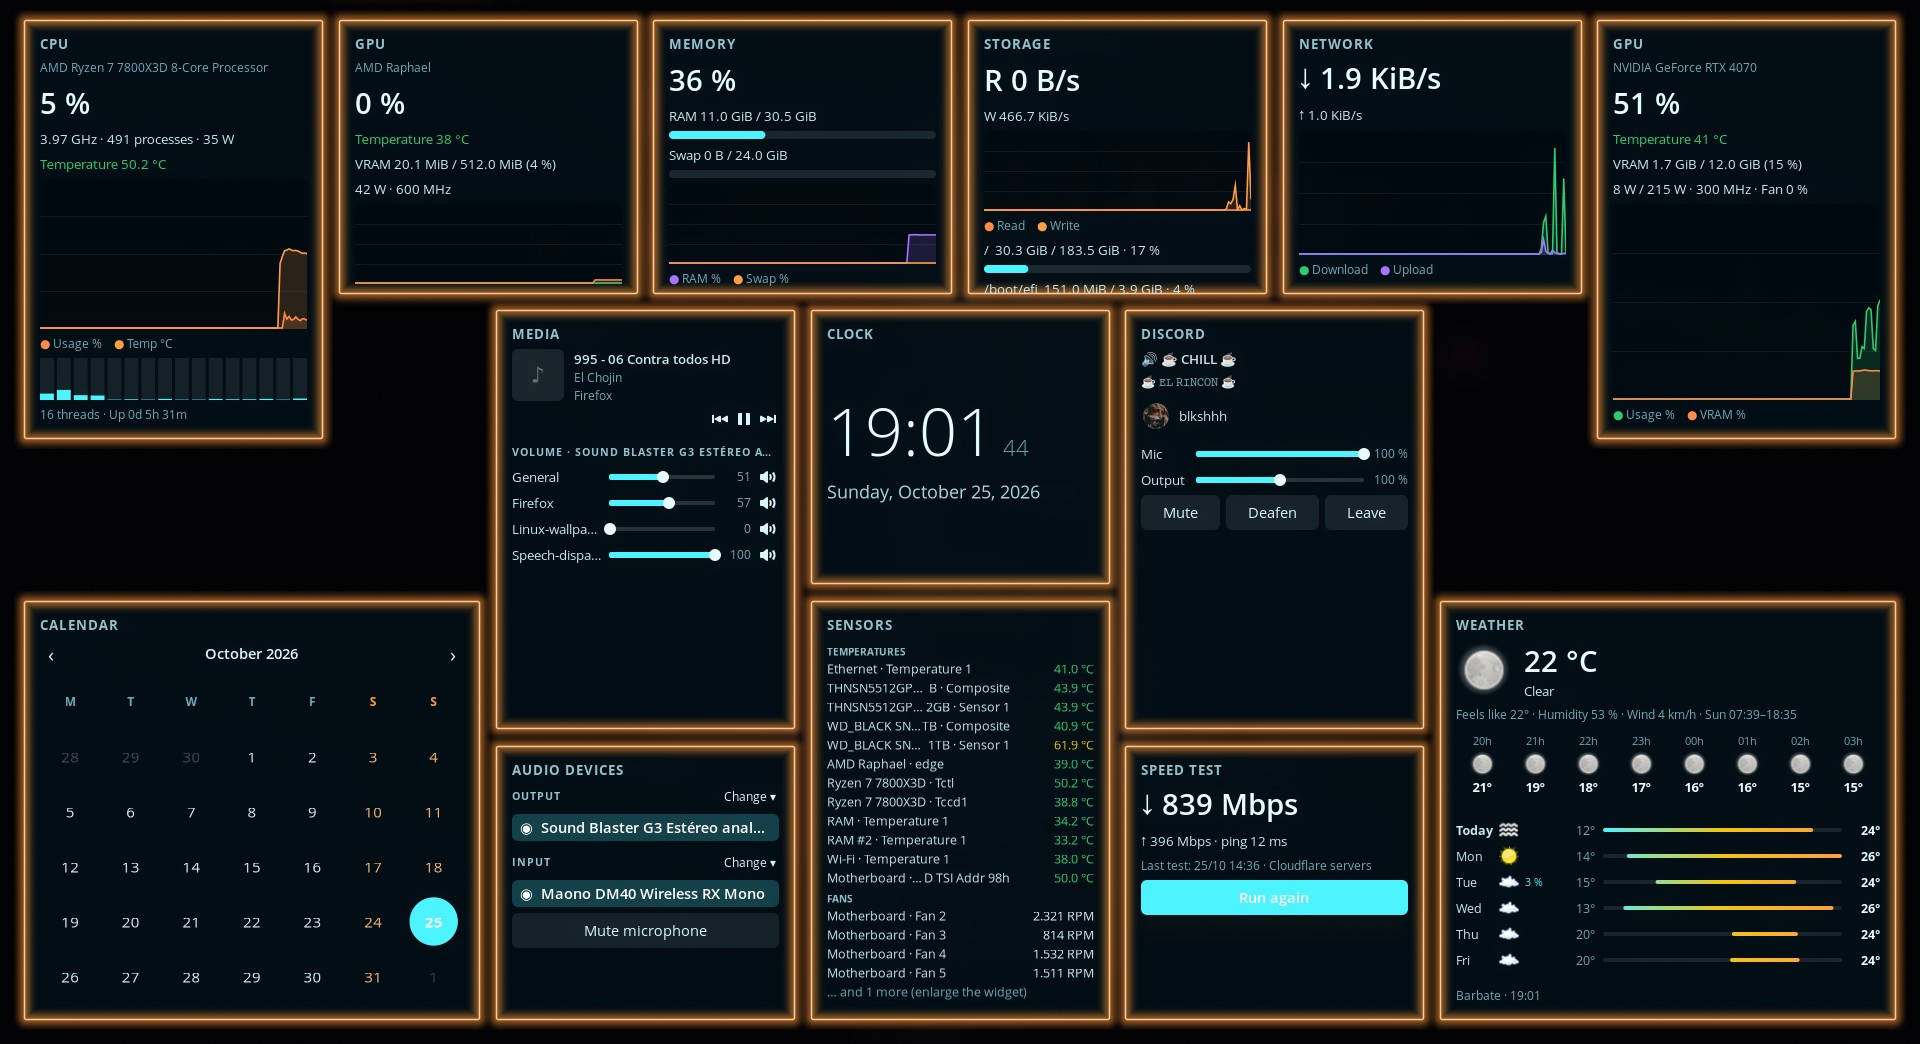
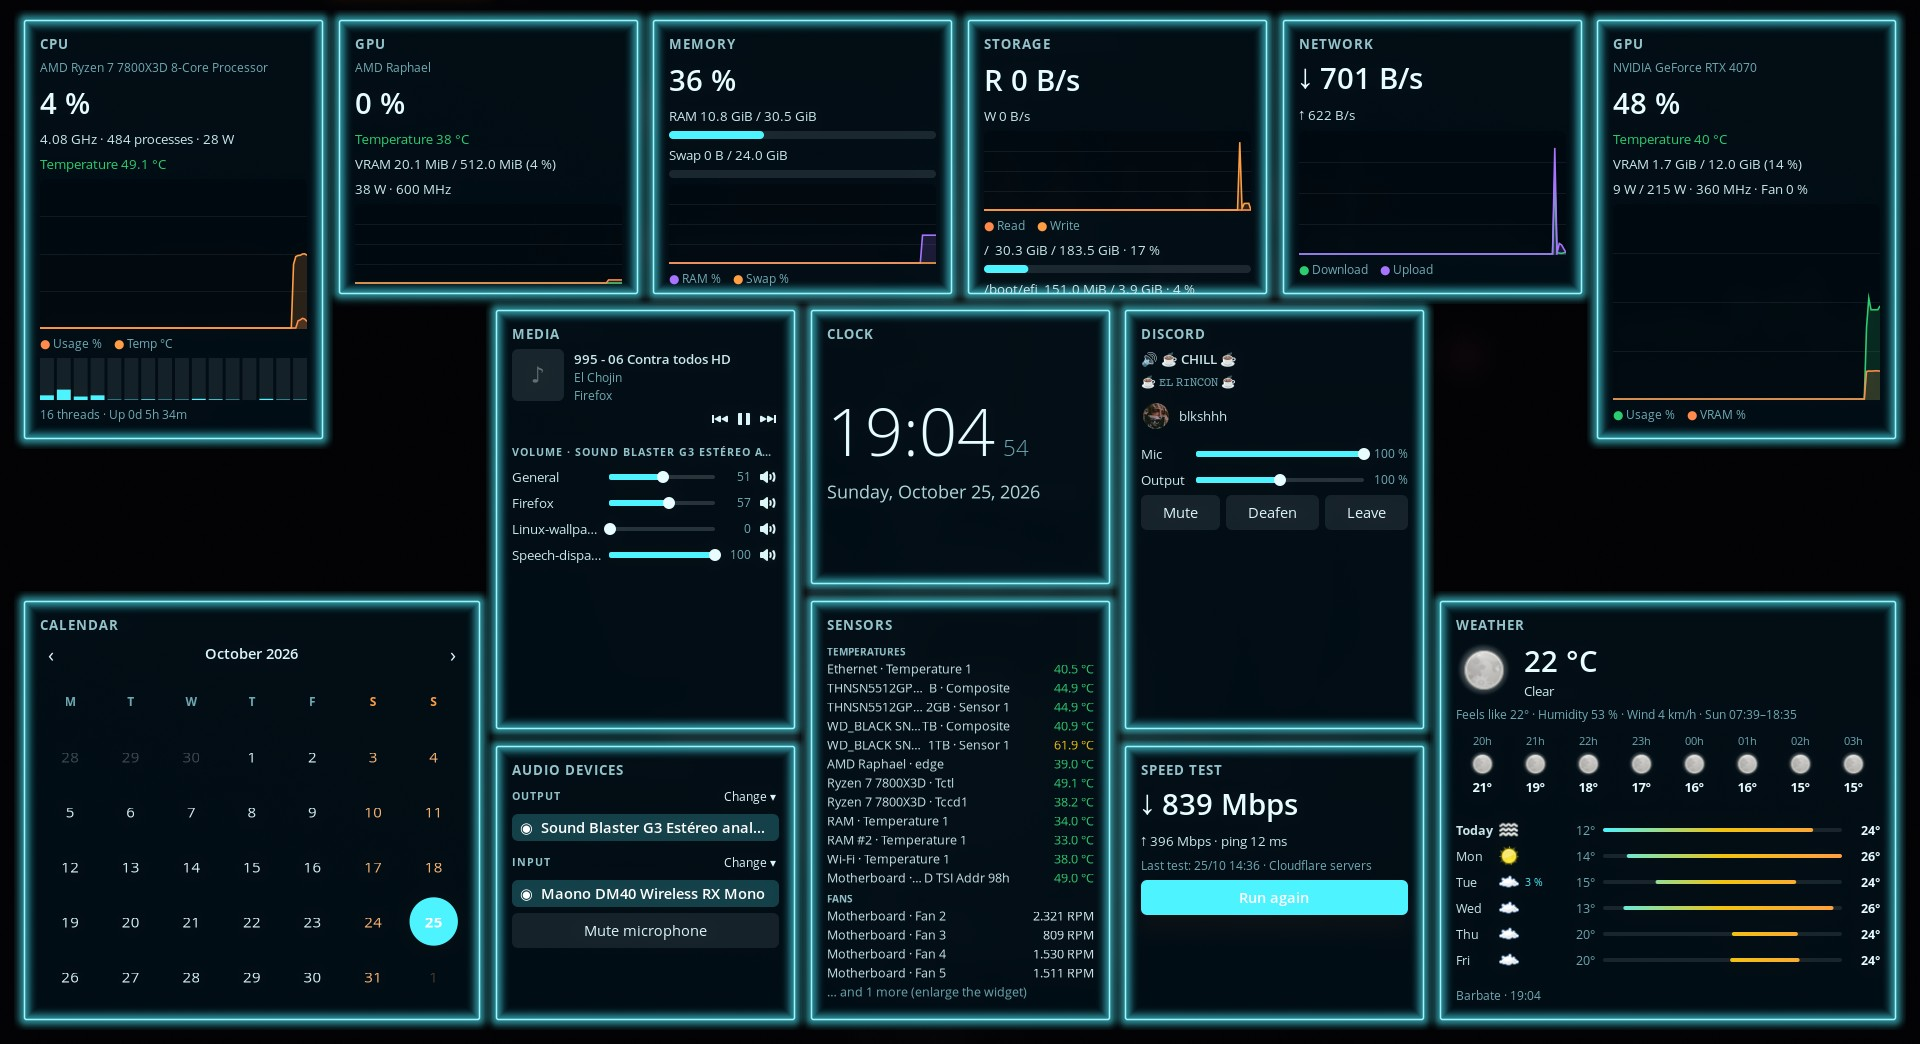
Tron theme: cyan panel borders, and retake its screenshot

Changed region(s): [[0.0, 0.0, 1.0, 1.0], [0.5, 0.3985, 0.5312, 0.4291]]

diff --git a/comun/tema.py b/comun/tema.py
@@ -106,7 +106,7 @@ PREDEFINIDOS = {
         "global": dict(POR_DEFECTO["global"], acento="#4df3ff", texto="#e8fdff", texto_sec="#6fa9b3"),
         "widgets": dict(POR_DEFECTO["widgets"], fondo="#00080c", opacidad=0.88, borde="#4df3ff", borde_opacidad=0.9,
                         borde_grosor=1.0, radio=2, neon=True),
-        "panel": dict(POR_DEFECTO["panel"], fondo="#00121a", opacidad=0.7, borde="#ff9a3c", borde_opacidad=0.85,
+        "panel": dict(POR_DEFECTO["panel"], fondo="#00121a", opacidad=0.7, borde="#4df3ff", borde_opacidad=0.85,
                       borde_grosor=1.0, radio=2, neon=True, panel_fondo="#000204", panel_opacidad=0.85),
     },
     "Vaporwave": {

diff --git a/README.es.md b/README.es.md
@@ -30,7 +30,7 @@ Hechas en Linux (COSMIC); la versión de Windows se ve igual.
 <td><img src="docs/capturas/pastel.jpg" alt="Pastel lavanda"></td>
 </tr>
 <tr>
-<td><img src="docs/capturas/tron.jpg" alt="Tema oscuro con bordes de neón"></td>
+<td><img src="docs/capturas/tron.jpg" alt="Tron"></td>
 <td><img src="docs/capturas/settings.jpg" alt="Ventana de configuración"></td>
 </tr>
 </table>

diff --git a/README.md b/README.md
@@ -26,7 +26,7 @@ Taken on Linux (COSMIC); the Windows version looks the same.
 <td><img src="docs/capturas/pastel.jpg" alt="Pastel lavender"></td>
 </tr>
 <tr>
-<td><img src="docs/capturas/tron.jpg" alt="Dark theme with neon borders"></td>
+<td><img src="docs/capturas/tron.jpg" alt="Tron"></td>
 <td><img src="docs/capturas/settings.jpg" alt="Settings window"></td>
 </tr>
 </table>
